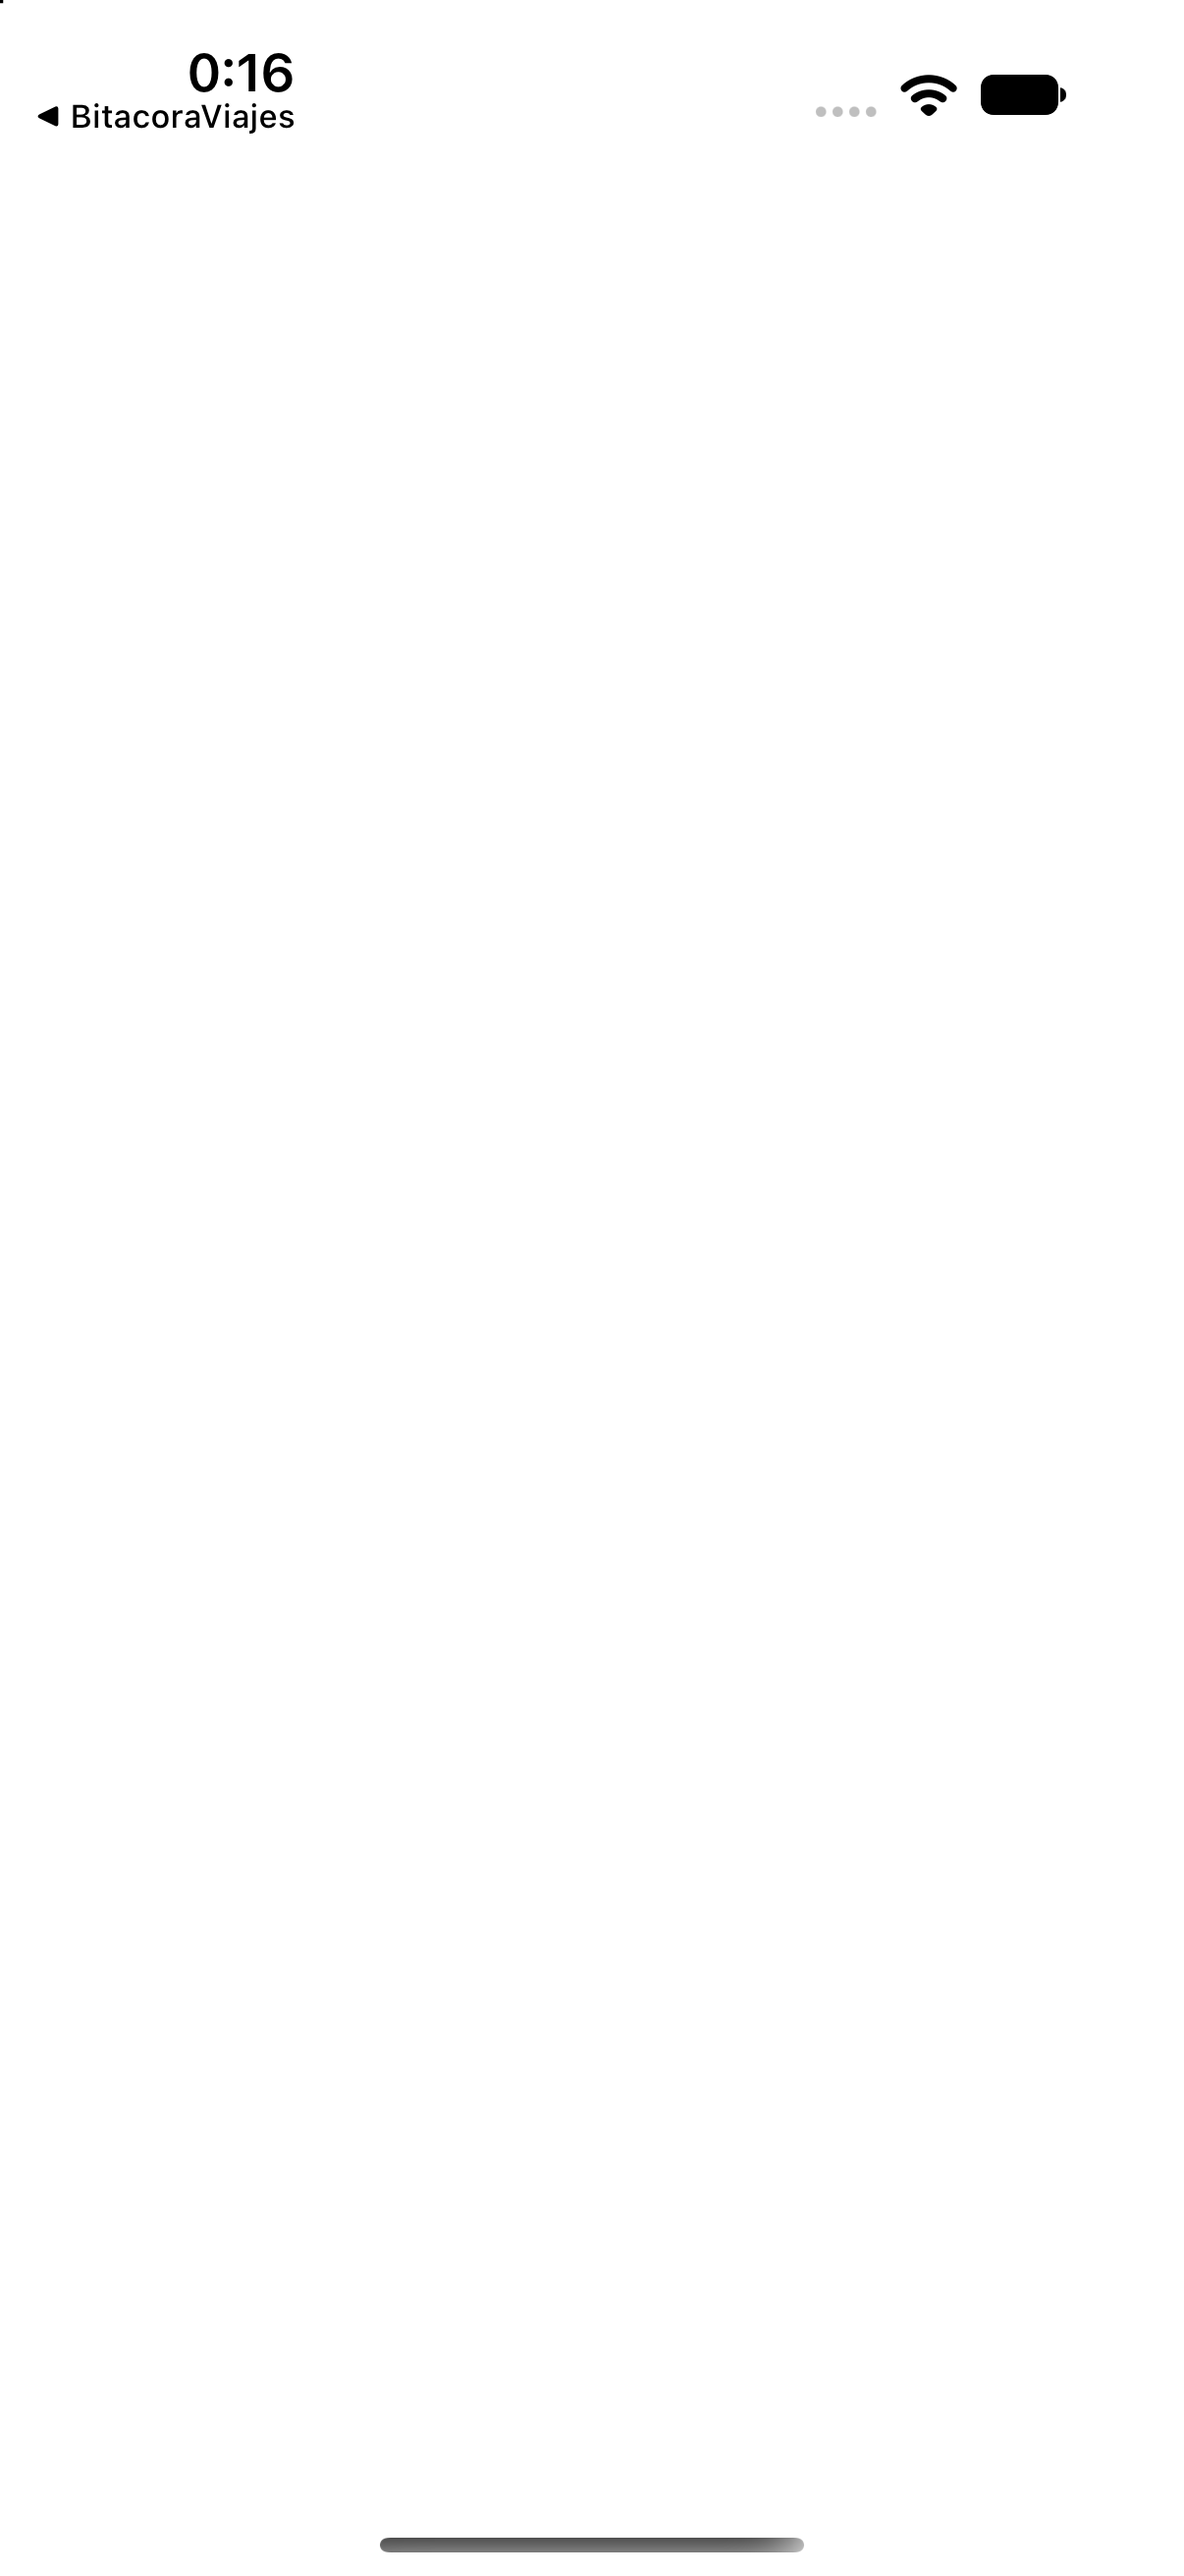
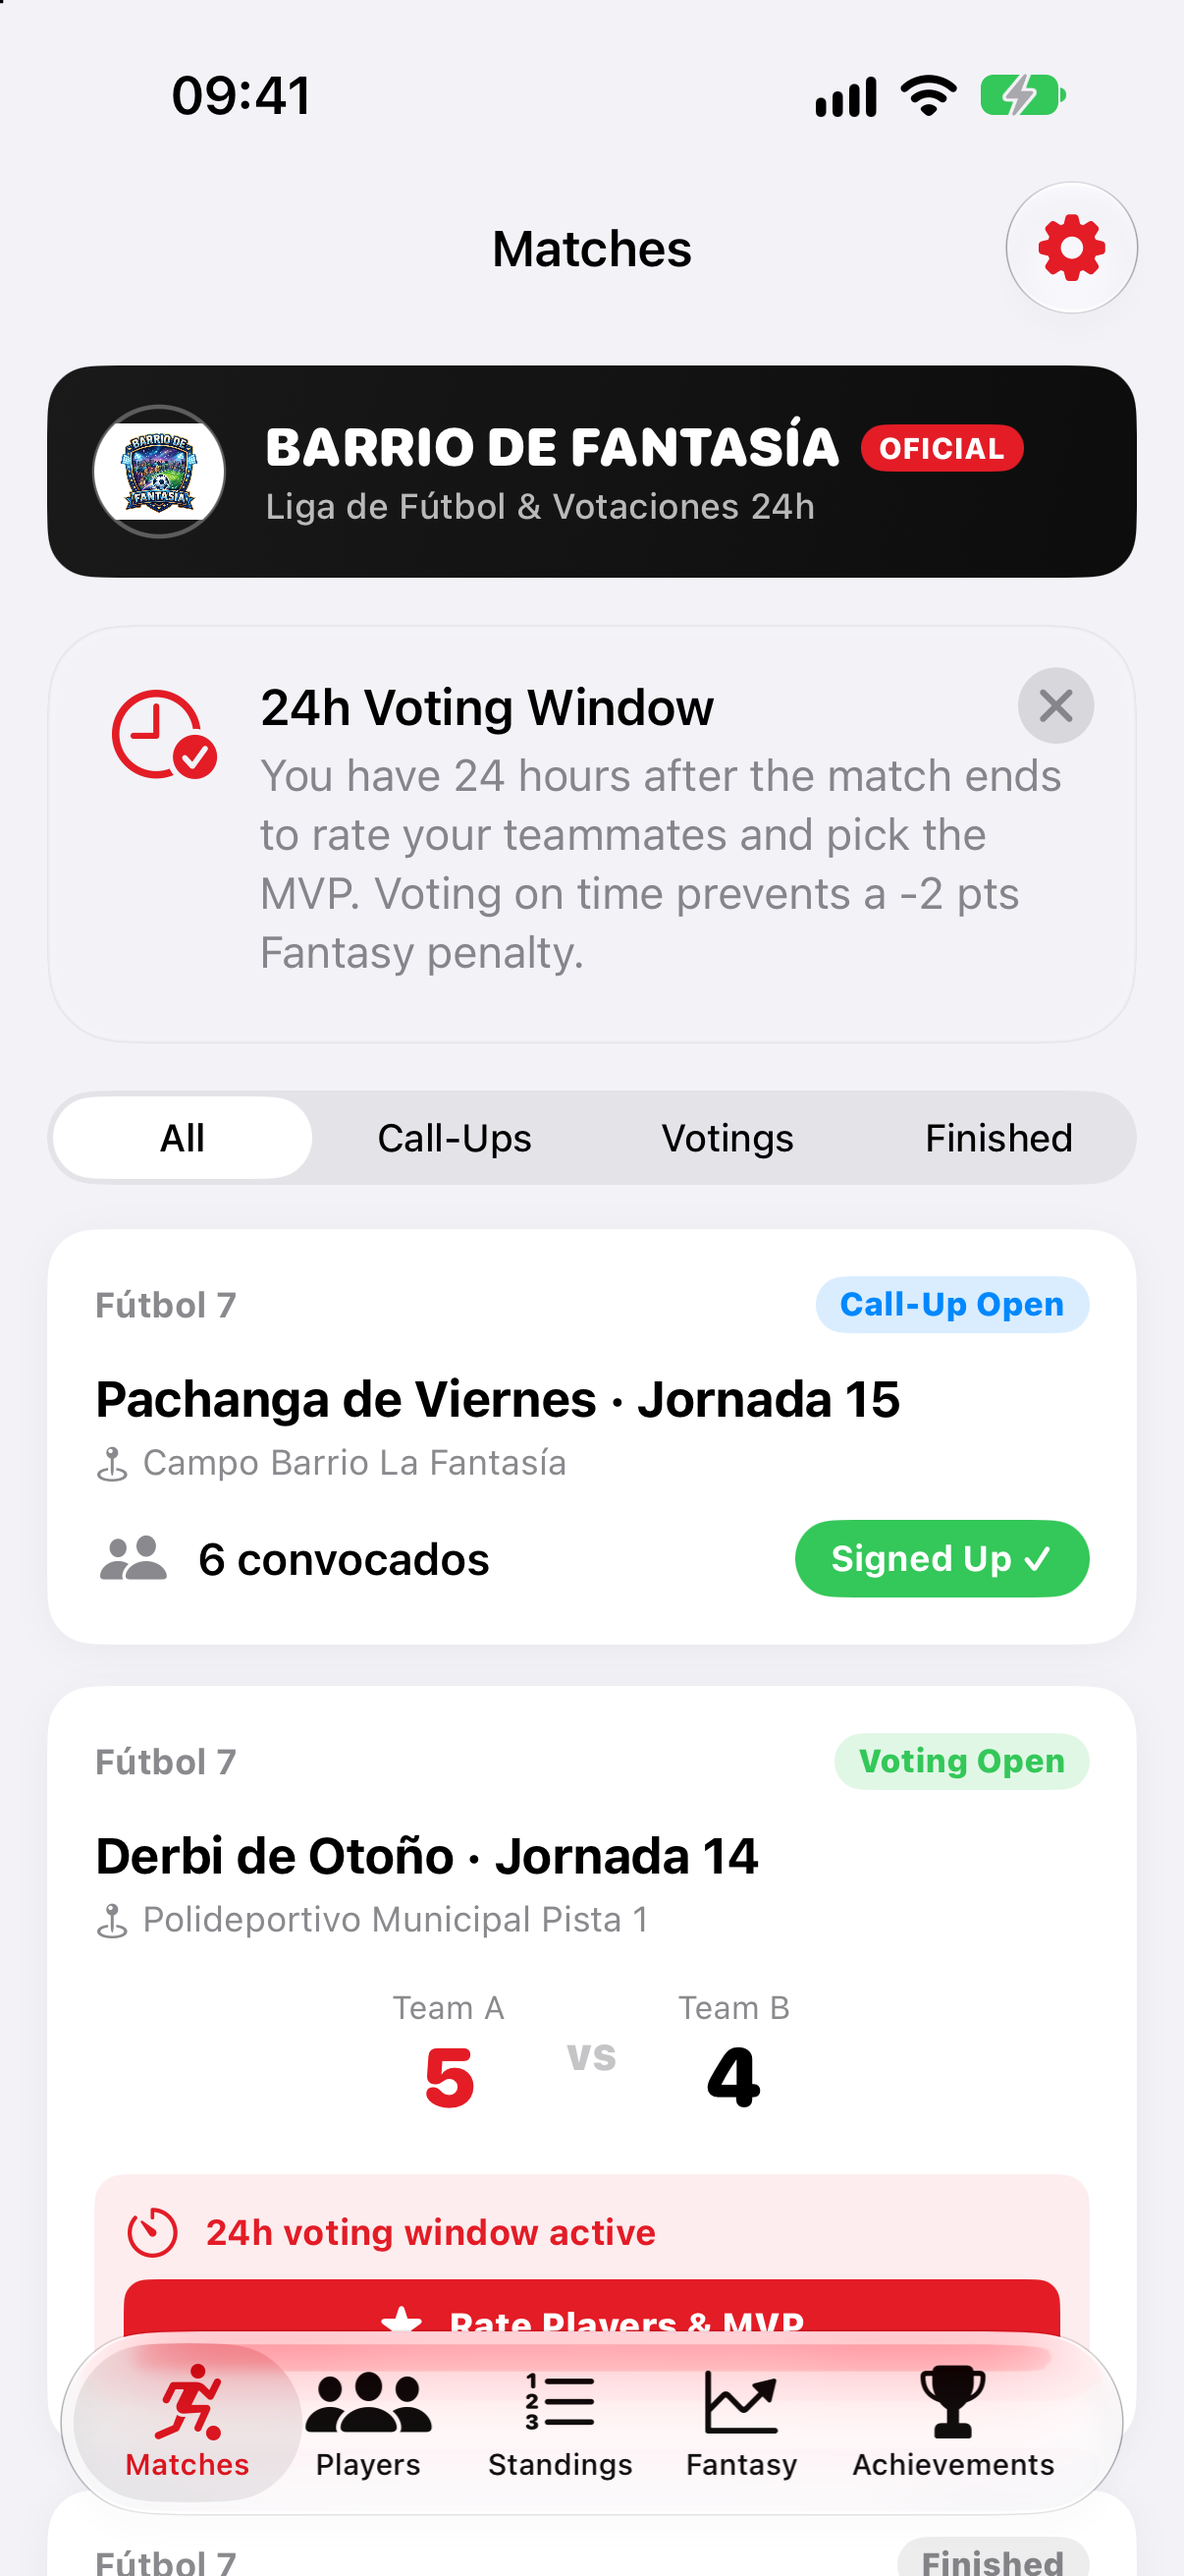
fix: replace blank screenshot with clean English UI, eliminate background app breadcrumb, and fix AppLogo asset binding

diff --git a/BarrioFantasia/Views/OnboardingFlowView.swift b/BarrioFantasia/Views/OnboardingFlowView.swift
@@ -28,7 +28,7 @@ public struct OnboardingFlowView: View {
 
                 // Brand Emblem
                 VStack(spacing: 12) {
-                    Image("logo", bundle: .main)
+                    Image("AppLogo")
                         .resizable()
                         .scaledToFit()
                         .frame(width: 90, height: 90)

diff --git a/BarrioFantasia/Views/MatchesView.swift b/BarrioFantasia/Views/MatchesView.swift
@@ -89,7 +89,7 @@ public struct MatchesView: View {
                 endPoint: .bottomTrailing
             )
             HStack(spacing: 14) {
-                Image("logo", bundle: .main)
+                Image("AppLogo")
                     .resizable()
                     .scaledToFit()
                     .frame(width: 44, height: 44)
